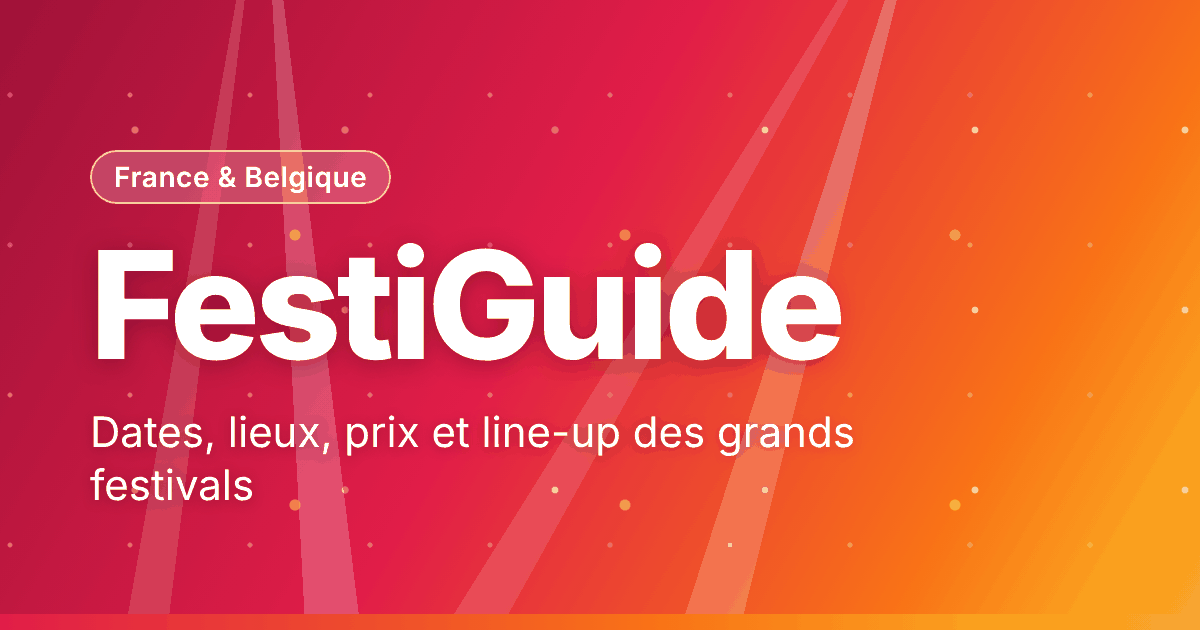
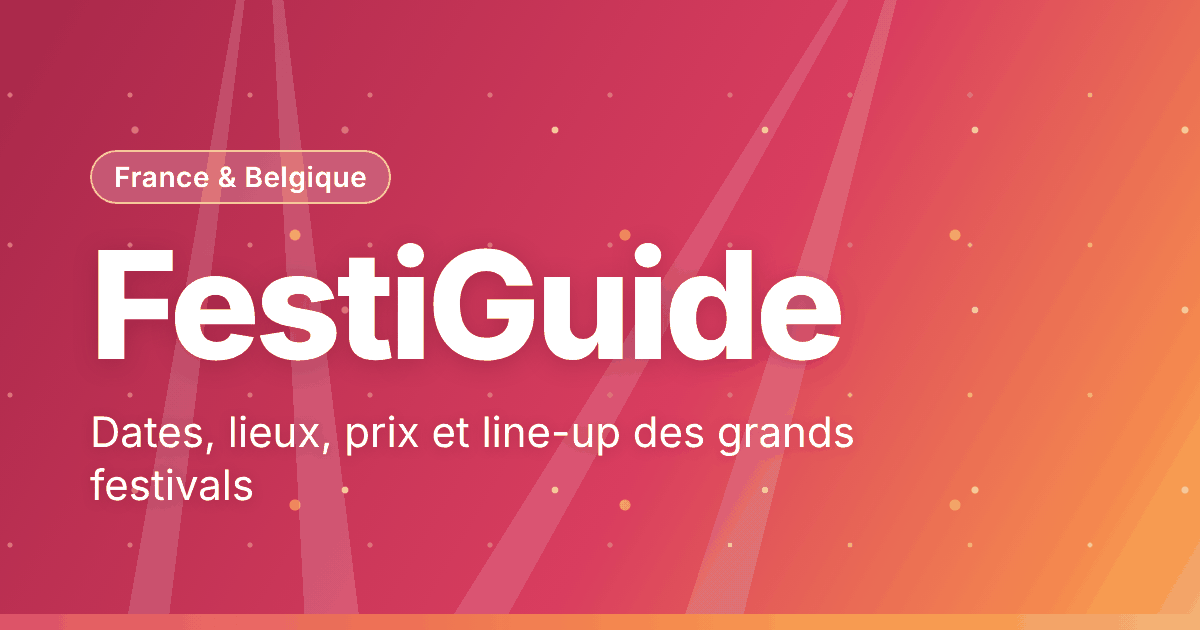
Palette adoucie : bandeau, foule, faisceaux et boutons moins contrastés
Contrastes recalculés : texte >= 4,5:1 sur fond clair, texte du bandeau >= 4,4:1.

Claude-Session: https://claude.ai/code/session_01KbvEo3kpN5a9kCcYYmgdTA

diff --git a/style.css b/style.css
@@ -1,7 +1,7 @@
-:root{--bg:#ffffff;--card:#fff;--ink:#1c1f2e;--muted:#5b6075;--accent:#be123c;--accent2:#ff5a7a;--line:#f1e2d9;--ok:#127a4a;--warn:#a15c00;--brand:#9f1239;--pink:#e11d48;--orange:#f97316;--stripe:linear-gradient(90deg,#e11d48,#f97316 55%,#fbbf24)}
+:root{--bg:#ffffff;--card:#fff;--ink:#2a2d3c;--muted:#626679;--accent:#c4304f;--accent2:#ff5a7a;--line:#f1e2d9;--ok:#127a4a;--warn:#a15c00;--brand:#b0304f;--pink:#e8506a;--orange:#f58a4e;--stripe:linear-gradient(90deg,#e8506a,#f58a4e 55%,#fcc65a)}
 *{box-sizing:border-box}
 body{margin:0;font-family:system-ui,-apple-system,"Segoe UI",Roboto,sans-serif;color:var(--ink);background:#fff9f4;line-height:1.55;position:relative}
-body::before{content:"";position:fixed;inset:0;z-index:-1;pointer-events:none;background:url(motif.svg?v=82c69af3),radial-gradient(60% 45% at 8% 6%,rgba(225,29,72,.09),transparent 70%),radial-gradient(55% 45% at 95% 20%,rgba(251,191,36,.16),transparent 70%),radial-gradient(60% 50% at 70% 100%,rgba(249,115,22,.10),transparent 70%)}
+body::before{content:"";position:fixed;inset:0;z-index:-1;pointer-events:none;background:url(motif.svg?v=d41c2982),radial-gradient(60% 45% at 8% 6%,rgba(225,29,72,.09),transparent 70%),radial-gradient(55% 45% at 95% 20%,rgba(251,191,36,.16),transparent 70%),radial-gradient(60% 50% at 70% 100%,rgba(249,115,22,.10),transparent 70%)}
 .wrap{max-width:1100px;margin:0 auto;padding:0 18px}
 a{color:var(--accent)}
 .top{background:rgba(255,255,255,.92);color:var(--ink);border-bottom:1px solid var(--line);border-top:5px solid transparent;border-image:var(--stripe) 1 0 0 0}
@@ -9,12 +9,12 @@ a{color:var(--accent)}
 .brand{color:var(--brand);text-decoration:none;font-weight:800;font-size:1.15rem;letter-spacing:-.01em}
 .top nav a{color:var(--muted);text-decoration:none;font-size:.95rem}
 .top nav a:hover{color:var(--accent)}
-.hero{position:relative;overflow:hidden;color:#fff;padding:64px 0 150px;background:url(fond-hero.svg?v=82c69af3) center bottom/auto 170px no-repeat,linear-gradient(120deg,#9f1239 0%,#e11d48 45%,#f97316 80%,#fbbf24 100%)}
-.hero::before{content:"";position:absolute;inset:0;pointer-events:none;background:conic-gradient(from 168deg at 22% -25%,transparent 0 5deg,rgba(255,255,255,.20) 5deg 9deg,transparent 9deg 19deg,rgba(255,255,255,.14) 19deg 22deg,transparent 22deg 360deg),conic-gradient(from 188deg at 78% -25%,transparent 0 6deg,rgba(255,255,255,.18) 6deg 10deg,transparent 10deg 21deg,rgba(255,255,255,.12) 21deg 24deg,transparent 24deg 360deg)}
-.hero::after{content:"";position:absolute;inset:0;pointer-events:none;opacity:.55;background-image:radial-gradient(circle,rgba(255,255,255,.75) 0 2px,transparent 3px),radial-gradient(circle,rgba(255,224,102,.8) 0 3px,transparent 4px),radial-gradient(circle,rgba(255,255,255,.55) 0 1.5px,transparent 2.5px);background-size:150px 130px,230px 190px,90px 110px;background-position:20px 30px,90px 70px,50px 10px}
+.hero{position:relative;overflow:hidden;color:#fff;padding:64px 0 150px;background:url(fond-hero.svg?v=d41c2982) center bottom/auto 170px no-repeat,linear-gradient(120deg,#a8274a 0%,#d93d5f 58%,#f58a4e 90%,#fcc65a 100%)}
+.hero::before{content:"";position:absolute;inset:0;pointer-events:none;background:conic-gradient(from 168deg at 22% -25%,transparent 0 5deg,rgba(255,255,255,.14) 5deg 9deg,transparent 9deg 19deg,rgba(255,255,255,.10) 19deg 22deg,transparent 22deg 360deg),conic-gradient(from 188deg at 78% -25%,transparent 0 6deg,rgba(255,255,255,.13) 6deg 10deg,transparent 10deg 21deg,rgba(255,255,255,.09) 21deg 24deg,transparent 24deg 360deg)}
+.hero::after{content:"";position:absolute;inset:0;pointer-events:none;opacity:.38;background-image:radial-gradient(circle,rgba(255,255,255,.75) 0 2px,transparent 3px),radial-gradient(circle,rgba(255,224,102,.8) 0 3px,transparent 4px),radial-gradient(circle,rgba(255,255,255,.55) 0 1.5px,transparent 2.5px);background-size:150px 130px,230px 190px,90px 110px;background-position:20px 30px,90px 70px,50px 10px}
 .hero .wrap{position:relative;z-index:1}
-.hero h1{margin:0 0 10px;font-size:clamp(1.9rem,4.4vw,2.9rem);max-width:640px;text-shadow:0 2px 14px rgba(90,10,20,.45)}
-.hero p{margin:0;color:rgba(255,255,255,.95);font-size:1.08rem;max-width:620px;text-shadow:0 1px 8px rgba(90,10,20,.4)}
+.hero h1{margin:0 0 10px;font-size:clamp(1.9rem,4.4vw,2.9rem);max-width:640px;text-shadow:0 2px 14px rgba(110,25,40,.32)}
+.hero p{margin:0;color:rgba(255,255,255,.95);font-size:1.08rem;max-width:620px;text-shadow:0 1px 8px rgba(110,25,40,.28)}
 .filters{display:flex;gap:10px;flex-wrap:wrap;margin-top:-22px;position:relative}
 .filters input,.filters select{padding:12px 14px;border:1px solid var(--line);border-radius:10px;font-size:1rem;background:#fff;box-shadow:0 2px 8px rgba(20,20,60,.06);max-width:100%}
 .filters input{flex:1;min-width:220px}
@@ -22,11 +22,11 @@ a{color:var(--accent)}
 .grid{display:grid;grid-template-columns:repeat(auto-fill,minmax(290px,1fr));gap:16px}
 .card{position:relative;overflow:hidden;background:var(--card);border:1px solid var(--line);border-radius:14px;padding:22px 18px 18px;display:flex;flex-direction:column;gap:6px;box-shadow:0 2px 10px rgba(120,40,20,.07);transition:transform .18s ease,box-shadow .18s ease}
 .card::before{content:"";position:absolute;inset:0 0 auto 0;height:5px;background:var(--stripe)}
-.card:hover{transform:translateY(-3px);box-shadow:0 10px 24px rgba(159,18,57,.18)}
+.card:hover{transform:translateY(-3px);box-shadow:0 10px 24px rgba(176,48,79,.16)}
 @media (prefers-reduced-motion:reduce){.card{transition:none}.card:hover{transform:none}}
 .card[hidden]{display:none}
 .card-top{display:flex;justify-content:space-between;gap:8px;font-size:.82rem}
-.pill{background:#ffe4e9;color:var(--accent);padding:2px 10px;border-radius:99px;font-weight:600}
+.pill{background:#ffeaee;color:var(--accent);padding:2px 10px;border-radius:99px;font-weight:600}
 .country{color:var(--muted);text-align:right}
 .card h3{margin:4px 0 2px;font-size:1.2rem}
 .card h3 a{color:var(--ink);text-decoration:none}
@@ -35,8 +35,8 @@ a{color:var(--accent)}
 .tags{margin:4px 0}
 .tag{display:inline-block;background:#f1f2f8;color:#3b3f55;font-size:.78rem;padding:2px 9px;border-radius:99px;margin:0 4px 4px 0}
 .price{margin:2px 0 8px;font-weight:600}
-.btn{display:inline-block;margin-top:auto;background:linear-gradient(100deg,#be123c,#c2410c);color:#fff!important;text-decoration:none;padding:10px 16px;border-radius:10px;font-weight:600;text-align:center}
-.btn:hover{background:linear-gradient(100deg,#9f1239,#9a3412)}
+.btn{display:inline-block;margin-top:auto;background:linear-gradient(100deg,#c4304f,#c8501f);color:#fff!important;text-decoration:none;padding:10px 16px;border-radius:10px;font-weight:600;text-align:center}
+.btn:hover{background:linear-gradient(100deg,#ab2644,#b0441a)}
 .linkbtn{background:none;border:0;color:var(--accent);font:inherit;cursor:pointer;text-decoration:underline}
 .badge{font-size:.72rem;padding:2px 8px;border-radius:99px;font-weight:600;margin-left:4px;white-space:nowrap}
 .badge.ok{background:#e3f6ec;color:var(--ok)}
@@ -65,7 +65,7 @@ a{color:var(--accent)}
 .prices td{padding:8px 0;border-bottom:1px solid var(--line);vertical-align:top}
 .prices td:last-child{text-align:right;font-weight:600;padding-left:12px}
 .prices td[colspan]{text-align:left;font-weight:400;color:var(--muted)}
-.chip{display:inline-block;background:#ffeadb;color:#9a3412;padding:5px 12px;border-radius:99px;margin:0 6px 8px 0;font-size:.92rem;font-weight:500}
+.chip{display:inline-block;background:#fff0e3;color:#a3441a;padding:5px 12px;border-radius:99px;margin:0 6px 8px 0;font-size:.92rem;font-weight:500}
 .map{width:100%;height:340px;border:0;border-radius:10px;background:#e8eaf2;display:block}
 .map-wrap{width:100%}
 .map-ph{background:#fff4ee;border:1px dashed #f3c9b8;border-radius:10px;padding:26px 20px;text-align:center}
@@ -85,4 +85,4 @@ footer{background:#fff0e6;color:var(--muted);padding:22px 0;margin-top:30px;font
 .foot-nav a{color:var(--accent);text-decoration:none}
 .foot-nav a:hover{text-decoration:underline}
 .foot-copy{margin:0;font-size:.85rem}
-@media (max-width:560px){.hero{padding:38px 0 100px;background:url(fond-hero.svg?v=82c69af3) center bottom/auto 110px no-repeat,linear-gradient(160deg,#9f1239 0%,#e11d48 62%,#f97316 100%)}.box{padding:16px}.filters input,.filters select{width:100%}.map-ph{padding:20px 14px}}
+@media (max-width:560px){.hero{padding:38px 0 100px;background:url(fond-hero.svg?v=d41c2982) center bottom/auto 110px no-repeat,linear-gradient(160deg,#a8274a 0%,#d93d5f 62%,#f58a4e 100%)}.box{padding:16px}.filters input,.filters select{width:100%}.map-ph{padding:20px 14px}}

diff --git a/src/og-image.html b/src/og-image.html
@@ -5,14 +5,14 @@
 <style>
 *{box-sizing:border-box;margin:0}
 body{width:1200px;height:630px;overflow:hidden;font-family:system-ui,-apple-system,"Segoe UI",Roboto,"DejaVu Sans",sans-serif;color:#fff;
-background:linear-gradient(120deg,#9f1239 0%,#e11d48 45%,#f97316 80%,#fbbf24 100%);position:relative}
-.beams{position:absolute;inset:0;background:conic-gradient(from 168deg at 22% -25%,transparent 0 5deg,rgba(255,255,255,.22) 5deg 9deg,transparent 9deg 19deg,rgba(255,255,255,.15) 19deg 22deg,transparent 22deg 360deg),conic-gradient(from 188deg at 78% -25%,transparent 0 6deg,rgba(255,255,255,.2) 6deg 10deg,transparent 10deg 21deg,rgba(255,255,255,.13) 21deg 24deg,transparent 24deg 360deg)}
+background:linear-gradient(120deg,#a8274a 0%,#d93d5f 58%,#f58a4e 90%,#fcc65a 100%);position:relative}
+.beams{position:absolute;inset:0;background:conic-gradient(from 168deg at 22% -25%,transparent 0 5deg,rgba(255,255,255,.16) 5deg 9deg,transparent 9deg 19deg,rgba(255,255,255,.15) 19deg 22deg,transparent 22deg 360deg),conic-gradient(from 188deg at 78% -25%,transparent 0 6deg,rgba(255,255,255,.15) 6deg 10deg,transparent 10deg 21deg,rgba(255,255,255,.13) 21deg 24deg,transparent 24deg 360deg)}
 .dots{position:absolute;inset:0;opacity:.6;background-image:radial-gradient(circle,rgba(255,255,255,.8) 0 3px,transparent 4px),radial-gradient(circle,rgba(255,224,102,.9) 0 5px,transparent 6px),radial-gradient(circle,rgba(255,255,255,.6) 0 2px,transparent 3px);background-size:210px 180px,330px 270px,120px 150px;background-position:30px 40px,130px 100px,70px 20px}
 .box{position:relative;padding:150px 90px 0}
 .tag{display:inline-block;background:rgba(255,255,255,.2);border:2px solid rgba(255,255,255,.55);border-radius:99px;padding:8px 22px;font-size:28px;font-weight:600;letter-spacing:.02em}
-h1{font-size:150px;line-height:1;margin-top:26px;font-weight:800;letter-spacing:-.03em;text-shadow:0 4px 24px rgba(90,10,20,.45)}
-p{font-size:42px;margin-top:26px;max-width:900px;line-height:1.25;text-shadow:0 2px 12px rgba(90,10,20,.4)}
-.bar{position:absolute;left:0;right:0;bottom:0;height:16px;background:linear-gradient(90deg,#e11d48,#f97316 55%,#fbbf24)}
+h1{font-size:150px;line-height:1;margin-top:26px;font-weight:800;letter-spacing:-.03em;text-shadow:0 4px 24px rgba(110,25,40,.32)}
+p{font-size:42px;margin-top:26px;max-width:900px;line-height:1.25;text-shadow:0 2px 12px rgba(110,25,40,.28)}
+.bar{position:absolute;left:0;right:0;bottom:0;height:16px;background:linear-gradient(90deg,#e8506a,#f58a4e 55%,#fcc65a)}
 </style></head>
 <body><div class="beams"></div><div class="dots"></div>
 <div class="box"><span class="tag">France &amp; Belgique</span>

diff --git a/annecy-film-animation.html b/annecy-film-animation.html
@@ -19,7 +19,7 @@
 <meta property="og:image:height" content="630">
 <meta property="og:image:alt" content="FestiGuide : dates, lieux, prix et line-up des grands festivals">
 <meta name="twitter:card" content="summary_large_image">
-<link rel="stylesheet" href="style.css?v=2e9d861c">
+<link rel="stylesheet" href="style.css?v=2e4f52d1">
 <script type="application/ld+json">{"@context": "https://schema.org", "@type": "BreadcrumbList", "itemListElement": [{"@type": "ListItem", "position": 1, "name": "Accueil", "item": "https://lanfus.github.io/festiguide/index.html"}, {"@type": "ListItem", "position": 2, "name": "Festival international du film d'animation d'Annecy", "item": "https://lanfus.github.io/festiguide/annecy-film-animation.html"}]}</script>
 <script type="application/ld+json">{"@context": "https://schema.org", "@type": "Festival", "name": "Festival international du film d'animation d'Annecy", "startDate": "2027-06-13", "endDate": "2027-06-19", "eventStatus": "https://schema.org/EventScheduled", "eventAttendanceMode": "https://schema.org/OfflineEventAttendanceMode", "location": {"@type": "Place", "name": "Bonlieu, Cité internationale du cinéma d'animation et salles de la ville ; projections en plein air au Pâquier", "address": {"@type": "PostalAddress", "addressLocality": "Annecy (Haute-Savoie)", "addressRegion": "Auvergne-Rhône-Alpes", "addressCountry": "FR"}}, "url": "https://www.annecyfestival.com"}</script>
 </head>

diff --git a/festival-d-aix-en-provence.html b/festival-d-aix-en-provence.html
@@ -19,7 +19,7 @@
 <meta property="og:image:height" content="630">
 <meta property="og:image:alt" content="FestiGuide : dates, lieux, prix et line-up des grands festivals">
 <meta name="twitter:card" content="summary_large_image">
-<link rel="stylesheet" href="style.css?v=2e9d861c">
+<link rel="stylesheet" href="style.css?v=2e4f52d1">
 <script type="application/ld+json">{"@context": "https://schema.org", "@type": "BreadcrumbList", "itemListElement": [{"@type": "ListItem", "position": 1, "name": "Accueil", "item": "https://lanfus.github.io/festiguide/index.html"}, {"@type": "ListItem", "position": 2, "name": "Festival d'Aix-en-Provence", "item": "https://lanfus.github.io/festiguide/festival-d-aix-en-provence.html"}]}</script>
 <script type="application/ld+json">{"@context": "https://schema.org", "@type": "Festival", "name": "Festival d'Aix-en-Provence", "startDate": "2027-07-01", "endDate": "2027-07-20", "eventStatus": "https://schema.org/EventScheduled", "eventAttendanceMode": "https://schema.org/OfflineEventAttendanceMode", "location": {"@type": "Place", "name": "Théâtre de l'Archevêché, Grand Théâtre de Provence, Théâtre du Jeu de Paume (lieux 2026 ; lieux 2027 non publiés)", "address": {"@type": "PostalAddress", "addressLocality": "Aix-en-Provence (Bouches-du-Rhône)", "addressRegion": "Provence-Alpes-Côte d'Azur", "addressCountry": "FR"}}, "url": "https://www.festival-aix.com"}</script>
 </head>

diff --git a/angouleme-bande-dessinee.html b/angouleme-bande-dessinee.html
@@ -19,7 +19,7 @@
 <meta property="og:image:height" content="630">
 <meta property="og:image:alt" content="FestiGuide : dates, lieux, prix et line-up des grands festivals">
 <meta name="twitter:card" content="summary_large_image">
-<link rel="stylesheet" href="style.css?v=2e9d861c">
+<link rel="stylesheet" href="style.css?v=2e4f52d1">
 <script type="application/ld+json">{"@context": "https://schema.org", "@type": "BreadcrumbList", "itemListElement": [{"@type": "ListItem", "position": 1, "name": "Accueil", "item": "https://lanfus.github.io/festiguide/index.html"}, {"@type": "ListItem", "position": 2, "name": "Angoulême bande dessinée", "item": "https://lanfus.github.io/festiguide/angouleme-bande-dessinee.html"}]}</script>
 <script type="application/ld+json">{"@context": "https://schema.org", "@type": "Festival", "name": "Angoulême bande dessinée", "startDate": "2027-01-28", "endDate": "2027-01-31", "eventStatus": "https://schema.org/EventScheduled", "eventAttendanceMode": "https://schema.org/OfflineEventAttendanceMode", "location": {"@type": "Place", "name": "Toute la ville : plateau d'Angoulême (stands éditeurs), Théâtre d'Angoulême, Cité internationale de la bande dessinée", "address": {"@type": "PostalAddress", "addressLocality": "Angoulême (Charente)", "addressRegion": "Nouvelle-Aquitaine", "addressCountry": "FR"}}, "url": "https://www.angouleme-bandedessinee.com/"}</script>
 </head>

diff --git a/festival-interceltique-de-lorient.html b/festival-interceltique-de-lorient.html
@@ -19,7 +19,7 @@
 <meta property="og:image:height" content="630">
 <meta property="og:image:alt" content="FestiGuide : dates, lieux, prix et line-up des grands festivals">
 <meta name="twitter:card" content="summary_large_image">
-<link rel="stylesheet" href="style.css?v=2e9d861c">
+<link rel="stylesheet" href="style.css?v=2e4f52d1">
 <script type="application/ld+json">{"@context": "https://schema.org", "@type": "BreadcrumbList", "itemListElement": [{"@type": "ListItem", "position": 1, "name": "Accueil", "item": "https://lanfus.github.io/festiguide/index.html"}, {"@type": "ListItem", "position": 2, "name": "Festival Interceltique de Lorient", "item": "https://lanfus.github.io/festiguide/festival-interceltique-de-lorient.html"}]}</script>
 <script type="application/ld+json">{"@context": "https://schema.org", "@type": "Festival", "name": "Festival Interceltique de Lorient", "startDate": "2027-07-30", "endDate": "2027-08-08", "eventStatus": "https://schema.org/EventScheduled", "eventAttendanceMode": "https://schema.org/OfflineEventAttendanceMode", "location": {"@type": "Place", "name": "Lorient (Palais des Congrès, Grand Théâtre, rues et stade du Moustoir pour la Grande Parade)", "address": {"@type": "PostalAddress", "addressLocality": "Lorient (Morbihan)", "addressRegion": "Bretagne", "addressCountry": "FR"}}, "url": "https://www.festival-interceltique.bzh"}</script>
 </head>

diff --git a/francofolies-de-la-rochelle.html b/francofolies-de-la-rochelle.html
@@ -19,7 +19,7 @@
 <meta property="og:image:height" content="630">
 <meta property="og:image:alt" content="FestiGuide : dates, lieux, prix et line-up des grands festivals">
 <meta name="twitter:card" content="summary_large_image">
-<link rel="stylesheet" href="style.css?v=2e9d861c">
+<link rel="stylesheet" href="style.css?v=2e4f52d1">
 <script type="application/ld+json">{"@context": "https://schema.org", "@type": "BreadcrumbList", "itemListElement": [{"@type": "ListItem", "position": 1, "name": "Accueil", "item": "https://lanfus.github.io/festiguide/index.html"}, {"@type": "ListItem", "position": 2, "name": "Les Francofolies de La Rochelle", "item": "https://lanfus.github.io/festiguide/francofolies-de-la-rochelle.html"}]}</script>
 <script type="application/ld+json">{"@context": "https://schema.org", "@type": "Festival", "name": "Les Francofolies de La Rochelle", "startDate": "2027-07-10", "endDate": "2027-07-14", "eventStatus": "https://schema.org/EventScheduled", "eventAttendanceMode": "https://schema.org/OfflineEventAttendanceMode", "location": {"@type": "Place", "name": "Centre-ville de La Rochelle (scène Jean-Louis Foulquier, esplanade Saint-Jean-d'Acre)", "address": {"@type": "PostalAddress", "addressLocality": "La Rochelle (Charente-Maritime)", "addressRegion": "Nouvelle-Aquitaine", "addressCountry": "FR"}}, "url": "https://www.francofolies.fr"}</script>
 </head>

diff --git a/festival-de-cornouaille.html b/festival-de-cornouaille.html
@@ -19,7 +19,7 @@
 <meta property="og:image:height" content="630">
 <meta property="og:image:alt" content="FestiGuide : dates, lieux, prix et line-up des grands festivals">
 <meta name="twitter:card" content="summary_large_image">
-<link rel="stylesheet" href="style.css?v=2e9d861c">
+<link rel="stylesheet" href="style.css?v=2e4f52d1">
 <script type="application/ld+json">{"@context": "https://schema.org", "@type": "BreadcrumbList", "itemListElement": [{"@type": "ListItem", "position": 1, "name": "Accueil", "item": "https://lanfus.github.io/festiguide/index.html"}, {"@type": "ListItem", "position": 2, "name": "Festival de Cornouaille", "item": "https://lanfus.github.io/festiguide/festival-de-cornouaille.html"}]}</script>
 <script type="application/ld+json">{"@context": "https://schema.org", "@type": "Festival", "name": "Festival de Cornouaille", "startDate": "2027-07-22", "endDate": "2027-07-25", "eventStatus": "https://schema.org/EventScheduled", "eventAttendanceMode": "https://schema.org/OfflineEventAttendanceMode", "location": {"@type": "Place", "name": "Centre historique de Quimper (Théâtre de Cornouaille, Chapeau Rouge, Jardin de l'Évêché)", "address": {"@type": "PostalAddress", "addressLocality": "Quimper (Finistère)", "addressRegion": "Bretagne", "addressCountry": "FR"}}, "url": "https://www.festival-cornouaille.bzh/"}</script>
 </head>

diff --git a/fete-des-lumieres-lyon.html b/fete-des-lumieres-lyon.html
@@ -19,7 +19,7 @@
 <meta property="og:image:height" content="630">
 <meta property="og:image:alt" content="FestiGuide : dates, lieux, prix et line-up des grands festivals">
 <meta name="twitter:card" content="summary_large_image">
-<link rel="stylesheet" href="style.css?v=2e9d861c">
+<link rel="stylesheet" href="style.css?v=2e4f52d1">
 <script type="application/ld+json">{"@context": "https://schema.org", "@type": "BreadcrumbList", "itemListElement": [{"@type": "ListItem", "position": 1, "name": "Accueil", "item": "https://lanfus.github.io/festiguide/index.html"}, {"@type": "ListItem", "position": 2, "name": "Fête des Lumières", "item": "https://lanfus.github.io/festiguide/fete-des-lumieres-lyon.html"}]}</script>
 <script type="application/ld+json">{"@context": "https://schema.org", "@type": "Festival", "name": "Fête des Lumières", "startDate": "2026-12-05", "endDate": "2026-12-08", "eventStatus": "https://schema.org/EventScheduled", "eventAttendanceMode": "https://schema.org/OfflineEventAttendanceMode", "location": {"@type": "Place", "name": "Tout Lyon : 27 œuvres sur 20 sites (Presqu'île, Fourvière, Vieux-Lyon, parc de la Tête d'Or…)", "address": {"@type": "PostalAddress", "addressLocality": "Lyon (Rhône)", "addressRegion": "Auvergne-Rhône-Alpes", "addressCountry": "FR"}}, "url": "https://fetedeslumieres.lyon.fr"}</script>
 </head>

diff --git a/festival-de-cannes.html b/festival-de-cannes.html
@@ -19,7 +19,7 @@
 <meta property="og:image:height" content="630">
 <meta property="og:image:alt" content="FestiGuide : dates, lieux, prix et line-up des grands festivals">
 <meta name="twitter:card" content="summary_large_image">
-<link rel="stylesheet" href="style.css?v=2e9d861c">
+<link rel="stylesheet" href="style.css?v=2e4f52d1">
 <script type="application/ld+json">{"@context": "https://schema.org", "@type": "BreadcrumbList", "itemListElement": [{"@type": "ListItem", "position": 1, "name": "Accueil", "item": "https://lanfus.github.io/festiguide/index.html"}, {"@type": "ListItem", "position": 2, "name": "Festival de Cannes", "item": "https://lanfus.github.io/festiguide/festival-de-cannes.html"}]}</script>
 <script type="application/ld+json">{"@context": "https://schema.org", "@type": "Festival", "name": "Festival de Cannes", "startDate": "2027-05-11", "endDate": "2027-05-22", "eventStatus": "https://schema.org/EventScheduled", "eventAttendanceMode": "https://schema.org/OfflineEventAttendanceMode", "location": {"@type": "Place", "name": "Palais des Festivals et des Congrès, 1 boulevard de la Croisette, 06400 Cannes", "address": {"@type": "PostalAddress", "addressLocality": "Cannes (Alpes-Maritimes)", "addressRegion": "Provence-Alpes-Côte d'Azur", "addressCountry": "FR"}}, "url": "https://www.festival-cannes.com"}</script>
 </head>

diff --git a/positive-education-festival.html b/positive-education-festival.html
@@ -19,7 +19,7 @@
 <meta property="og:image:height" content="630">
 <meta property="og:image:alt" content="FestiGuide : dates, lieux, prix et line-up des grands festivals">
 <meta name="twitter:card" content="summary_large_image">
-<link rel="stylesheet" href="style.css?v=2e9d861c">
+<link rel="stylesheet" href="style.css?v=2e4f52d1">
 <script type="application/ld+json">{"@context": "https://schema.org", "@type": "BreadcrumbList", "itemListElement": [{"@type": "ListItem", "position": 1, "name": "Accueil", "item": "https://lanfus.github.io/festiguide/index.html"}, {"@type": "ListItem", "position": 2, "name": "Positive Education Festival", "item": "https://lanfus.github.io/festiguide/positive-education-festival.html"}]}</script>
 <script type="application/ld+json">{"@context": "https://schema.org", "@type": "Festival", "name": "Positive Education Festival", "startDate": "2027-03-26", "endDate": "2027-03-27", "eventStatus": "https://schema.org/EventScheduled", "eventAttendanceMode": "https://schema.org/OfflineEventAttendanceMode", "location": {"@type": "Place", "name": "Cité du design, 3 rue Javelin Pagnon, 42000 Saint-Étienne", "address": {"@type": "PostalAddress", "addressLocality": "Saint-Étienne (Loire)", "addressRegion": "Auvergne-Rhône-Alpes", "addressCountry": "FR"}}, "url": "https://positiveeducation.fr"}</script>
 </head>

diff --git a/carnaval-de-nice.html b/carnaval-de-nice.html
@@ -19,7 +19,7 @@
 <meta property="og:image:height" content="630">
 <meta property="og:image:alt" content="FestiGuide : dates, lieux, prix et line-up des grands festivals">
 <meta name="twitter:card" content="summary_large_image">
-<link rel="stylesheet" href="style.css?v=2e9d861c">
+<link rel="stylesheet" href="style.css?v=2e4f52d1">
 <script type="application/ld+json">{"@context": "https://schema.org", "@type": "BreadcrumbList", "itemListElement": [{"@type": "ListItem", "position": 1, "name": "Accueil", "item": "https://lanfus.github.io/festiguide/index.html"}, {"@type": "ListItem", "position": 2, "name": "Carnaval de Nice", "item": "https://lanfus.github.io/festiguide/carnaval-de-nice.html"}]}</script>
 <script type="application/ld+json">{"@context": "https://schema.org", "@type": "Festival", "name": "Carnaval de Nice", "startDate": "2027-02-09", "endDate": "2027-02-28", "eventStatus": "https://schema.org/EventScheduled", "eventAttendanceMode": "https://schema.org/OfflineEventAttendanceMode", "location": {"@type": "Place", "name": "Place Masséna et Promenade des Anglais ; Village du Carnaval au square Leclerc", "address": {"@type": "PostalAddress", "addressLocality": "Nice (Alpes-Maritimes)", "addressRegion": "Provence-Alpes-Côte d'Azur", "addressCountry": "FR"}}, "url": "https://www.nicecarnaval.com"}</script>
 </head>
